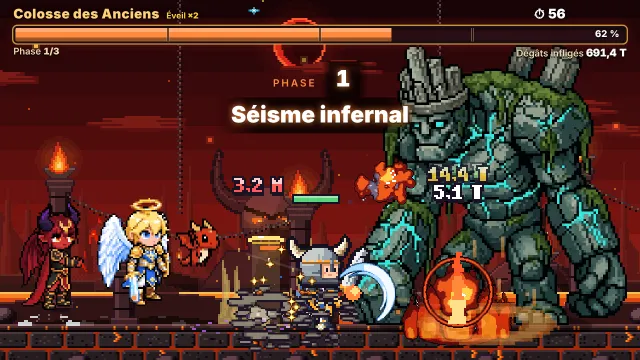
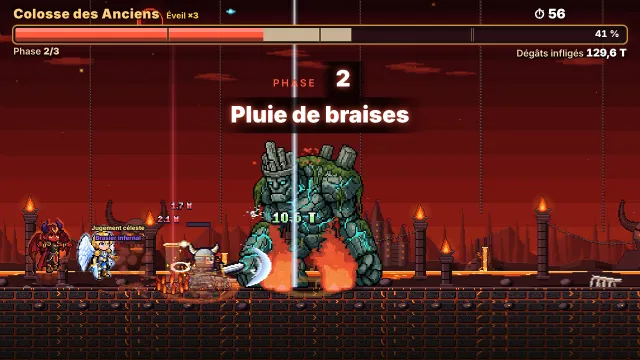
Site : capture du World Boss traduite (anglais par défaut, français pour le site en FR)
record-trailer : option --lang (langue du jeu filmé ; image .<langue>.webp hors français).

Claude-Session: https://claude.ai/code/session_0134j7sWC6n1vRKCjA4LHtyt

diff --git a/site/index.html b/site/index.html
@@ -309,7 +309,7 @@
           <h3 data-t="discover.heroes.0">HEROES</h3><p data-t="discover.heroes.1">Collect and upgrade legendary heroes.</p></article>
         <article class="feat reveal"><div class="art"><img class="px" src="assets/px/pet_phoenix.webp" alt="" width="143" height="178" loading="lazy" decoding="async"></div>
           <h3 data-t="discover.familiars.0">FAMILIARS</h3><p data-t="discover.familiars.1">Summon magical companions.</p></article>
-        <article class="feat reveal"><div class="art shot"><img class="px" src="assets/worlds/colossus.webp" alt="" width="640" height="360" loading="lazy" decoding="async"></div>
+        <article class="feat reveal"><div class="art shot"><img class="px" src="assets/worlds/colossus.en.webp" data-t-attr="src:discover.bossesShot" alt="" width="640" height="360" loading="lazy" decoding="async"></div>
           <h3 data-t="discover.bosses.0">BOSS BATTLES</h3><p data-t="discover.bosses.1">Challenge powerful enemies.</p></article>
       </div>
     </section>

diff --git a/site/i18n/fr.js b/site/i18n/fr.js
@@ -78,6 +78,7 @@ export default {
     heroes: ['HÉROS', 'Collectionnez et améliorez des héros légendaires.'],
     familiars: ['FAMILIERS', 'Invoquez des compagnons magiques.'],
     bosses: ['COMBATS DE BOSS', 'Affrontez des ennemis redoutables.'],
+    bossesShot: 'assets/worlds/colossus.webp',
   },
   form: {
     title: "REJOIGNEZ L'AVENTURE !",

diff --git a/site/i18n/en.js b/site/i18n/en.js
@@ -79,6 +79,7 @@ export default {
     heroes: ['HEROES', 'Collect and upgrade legendary heroes.'],
     familiars: ['FAMILIARS', 'Summon magical companions.'],
     bosses: ['BOSS BATTLES', 'Challenge powerful enemies.'],
+    bossesShot: 'assets/worlds/colossus.en.webp',
   },
   form: {
     title: 'JOIN THE ADVENTURE!',
